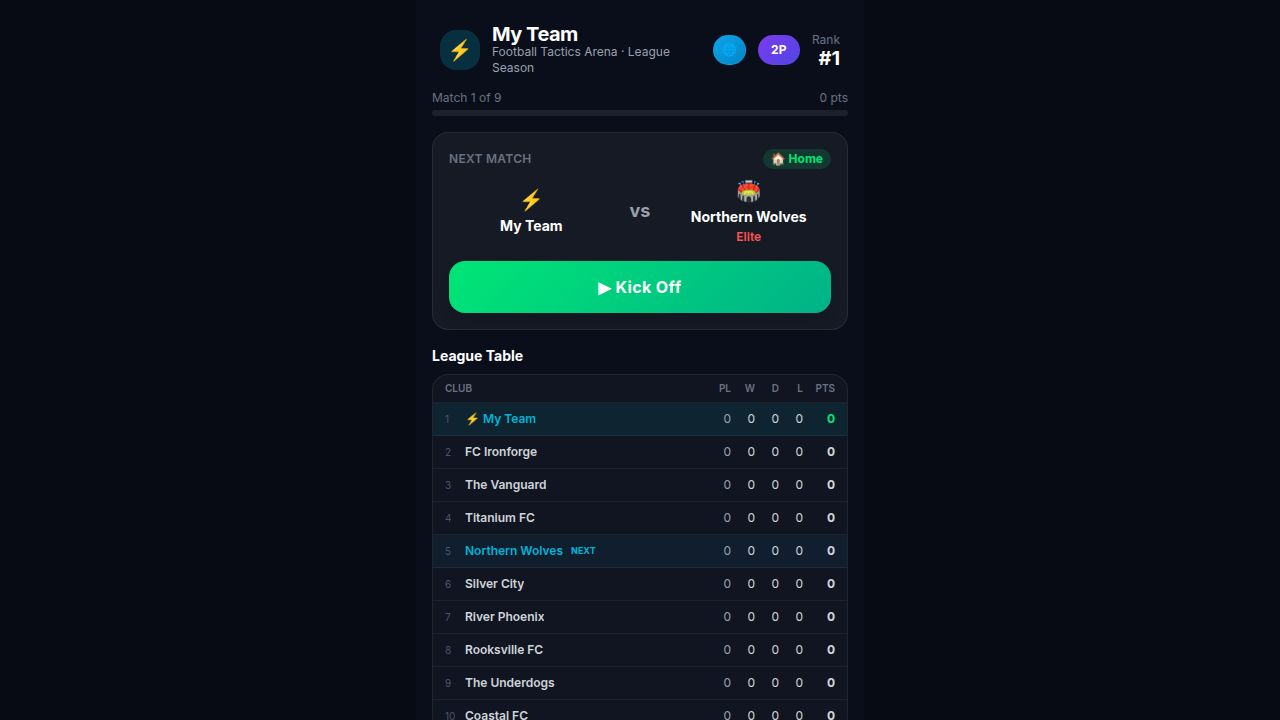
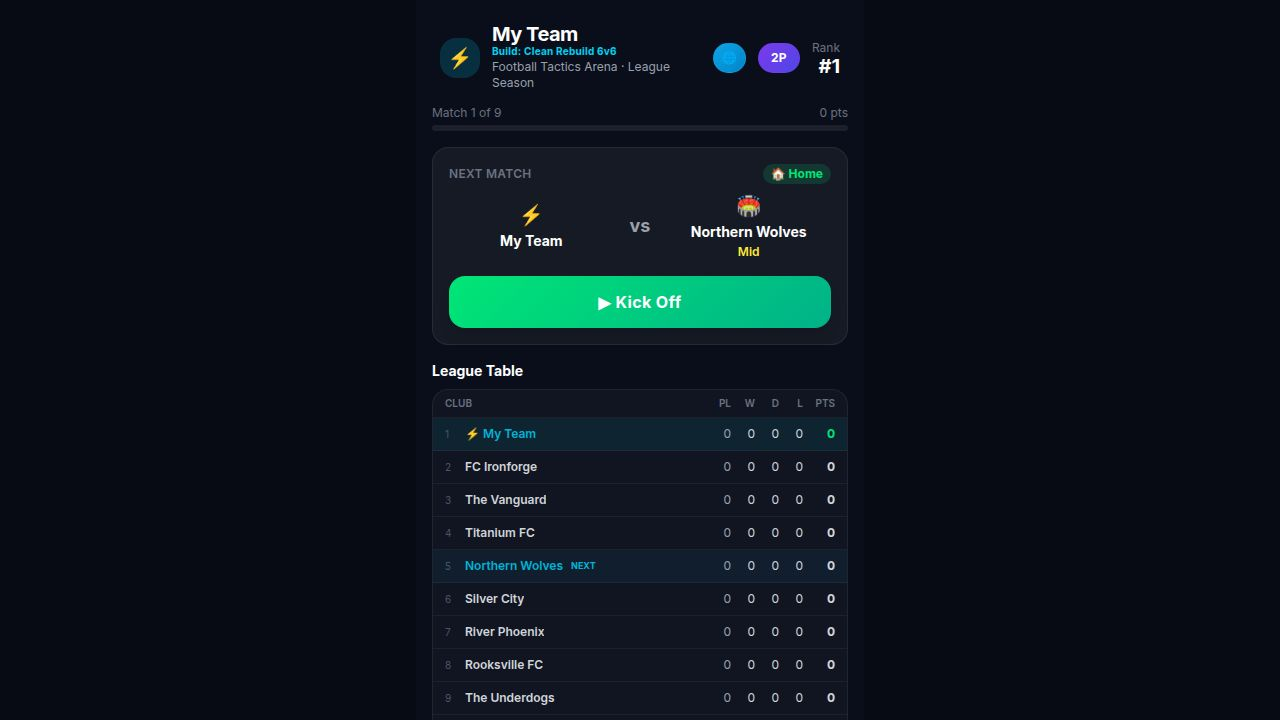
Make offside players invisible and have them retreat immediately
Update AI logic to make offside players invisible to the opposing AI and trigger an immediate retreat for those players. Also, update team setup to correctly handle initial tab states.

Replit-Commit-Author: Agent
Replit-Commit-Session-Id: b0875c89-e0bf-4ca7-92a5-9663b7d83f62
Replit-Commit-Checkpoint-Type: full_checkpoint
Replit-Commit-Event-Id: 6854da1e-b3cb-48e6-b5a6-f872ed57d44a
Replit-Commit-Screenshot-Url: https://storage.googleapis.com/screenshot-production-us-central1/bfa23300-0362-43b8-81dd-b9873eba8213/b0875c89-e0bf-4ca7-92a5-9663b7d83f62/m35GRGo
Replit-Helium-Checkpoint-Created: true

diff --git a/artifacts/fta-game/src/engine/ai.ts b/artifacts/fta-game/src/engine/ai.ts
@@ -387,6 +387,21 @@ function isAIPlayerOffside(p: SimPlayer, playerPlayers: SimPlayer[]): boolean {
   return p.position.x < PITCH_WIDTH / 3 && p.position.x < lineX;
 }
 
+// Returns the x-coordinate of the offside line as seen by the player team's attackers.
+// Player attacks rightward, so their offside line = 2nd-to-last AI player sorted by x DESC.
+function playerOffsideLineX(aiPlayers: SimPlayer[]): number {
+  if (aiPlayers.length === 0) return PITCH_WIDTH;
+  const sorted = [...aiPlayers].sort((a, b) => b.position.x - a.position.x);
+  return sorted.length >= 2 ? sorted[1].position.x : sorted[0].position.x;
+}
+
+function isPlayerTeamPlayerOffside(p: SimPlayer, aiPlayers: SimPlayer[]): boolean {
+  if (p.role === "goalkeeper") return false;
+  const lineX = playerOffsideLineX(aiPlayers);
+  // Offside only in the attacking third (x > 2/3 pitch) — middle third is a free zone.
+  return p.position.x > (PITCH_WIDTH * 2) / 3 && p.position.x > lineX;
+}
+
 /**
  * Cap poachers to 1 per team and handle onside retreat.
  * The most-advanced poacher (lowest x, since AI attacks leftward) keeps the role.
@@ -511,6 +526,7 @@ function bestAnyPass(
   const ct = posToTile(carrier.position);
   const candidates = aiPlayers
     .filter(p => p.id !== carrier.id)
+    .filter(p => !isAIPlayerOffside(p, playerPlayers))
     .map(p => ({ p, t: posToTile(p.position) }))
     .filter(({ t }) => tileDist(t, ct) <= maxDist)
     .filter(({ t }) => !isLaneBlocked(ct, t, playerPlayers))
@@ -1317,11 +1333,33 @@ export function generateAICommands(
     friendly.add(tileKey(t.col, t.row));
   }
 
+  // ── Offside filtering ────────────────────────────────────────────────────
+  // Compute which players from each team are currently offside.
+  // Offside players are invisible to AI pass/mark decisions.
+  // AI offside players retreat immediately instead of receiving commands.
+  const aiOffsideSet = new Set(
+    aiPlayers
+      .filter(p => p.id !== ball.ownerId && isAIPlayerOffside(p, playerPlayers))
+      .map(p => p.id)
+  );
+  const playerOffsideSet = new Set(
+    playerPlayers
+      .filter(p => p.id !== ball.ownerId && isPlayerTeamPlayerOffside(p, aiPlayers))
+      .map(p => p.id)
+  );
+
+  // Onside-only player lists used for all pass/mark/press decisions.
+  const activeAI = aiPlayers.filter(p => !aiOffsideSet.has(p.id));
+  const activePlayerPlayers = playerPlayers.filter(p => !playerOffsideSet.has(p.id));
+
+  // Column just inside the AI's onside zone (AI attacks leftward, offside zone is col < ~5).
+  const onsideCol = Math.ceil((PITCH_WIDTH / 3) / (PITCH_WIDTH / GRID_COLS)) + 1;
+
   const carrierTile =
     aiHasBall && ballOwner ? posToTile(ballOwner.position) : ballTile;
 
   const projectedAI: SimPlayer[] = aiHasBall
-    ? aiPlayers.map((p) => {
+    ? activeAI.map((p) => {
         if (p.id === ball.ownerId) return p;
         if (p.role === "goalkeeper") return p;
 
@@ -1329,7 +1367,7 @@ export function generateAICommands(
 
         if (currentTile.col >= carrierTile.col) return p;
 
-        const roleIdx = aiPlayers
+        const roleIdx = activeAI
           .filter((q) => q.role === p.role)
           .findIndex((q) => q.id === p.id);
 
@@ -1342,7 +1380,7 @@ export function generateAICommands(
           position: tileToPos(projTile.col, projTile.row),
         };
       })
-    : aiPlayers;
+    : activeAI;
 
   const roleOrder = (p: SimPlayer) =>
     p.role === "goalkeeper"
@@ -1368,6 +1406,14 @@ export function generateAICommands(
 
     for (const p of byProximity) {
       const pTile = posToTile(p.position);
+      // Offside AI players retreat to get onside instead of chasing the ball.
+      if (aiOffsideSet.has(p.id)) {
+        commands.set(p.id, {
+          type: CommandType.MOVE,
+          targetPosition: tileToPos(onsideCol, pTile.row),
+        });
+        continue;
+      }
       commands.set(
         p.id,
         chaseLooseBall(p, pTile, ballTile, claimed, friendly),
@@ -1382,6 +1428,15 @@ export function generateAICommands(
   for (const player of sorted) {
     const pt = posToTile(player.position);
     const hasBall = player.id === ball.ownerId;
+
+    // Offside AI players retreat to get onside — invisible to all other logic.
+    if (!hasBall && aiOffsideSet.has(player.id)) {
+      commands.set(player.id, {
+        type: CommandType.MOVE,
+        targetPosition: tileToPos(onsideCol, pt.row),
+      });
+      continue;
+    }
 
     if (!hasBall && planRef.current?.runnerId === player.id) {
       const { runTile } = planRef.current;
@@ -1404,7 +1459,7 @@ export function generateAICommands(
             pt,
             hasBall,
             projectedAI,
-            playerPlayers,
+            activePlayerPlayers,
             ballTile,
             claimed,
             friendly,
@@ -1418,7 +1473,7 @@ export function generateAICommands(
             pt,
             hasBall,
             projectedAI,
-            playerPlayers,
+            activePlayerPlayers,
             ballTile,
             claimed,
             friendly,
@@ -1432,7 +1487,7 @@ export function generateAICommands(
             pt,
             hasBall,
             projectedAI,
-            playerPlayers,
+            activePlayerPlayers,
             ballTile,
             claimed,
             friendly,
@@ -1446,8 +1501,8 @@ export function generateAICommands(
           cmd = tier1Defense(
             player,
             pt,
-            aiPlayers,
-            playerPlayers,
+            activeAI,
+            activePlayerPlayers,
             ballTile,
             claimed,
             friendly,
@@ -1459,8 +1514,8 @@ export function generateAICommands(
           cmd = tier2Defense(
             player,
             pt,
-            aiPlayers,
-            playerPlayers,
+            activeAI,
+            activePlayerPlayers,
             ballTile,
             claimed,
             friendly,
@@ -1472,8 +1527,8 @@ export function generateAICommands(
           cmd = tier3Defense(
             player,
             pt,
-            aiPlayers,
-            playerPlayers,
+            activeAI,
+            activePlayerPlayers,
             ballTile,
             claimed,
             friendly,
@@ -1487,8 +1542,8 @@ export function generateAICommands(
           cmd = tier1Defense(
             player,
             pt,
-            aiPlayers,
-            playerPlayers,
+            activeAI,
+            activePlayerPlayers,
             ballTile,
             claimed,
             friendly,
@@ -1500,8 +1555,8 @@ export function generateAICommands(
           cmd = tier2Defense(
             player,
             pt,
-            aiPlayers,
-            playerPlayers,
+            activeAI,
+            activePlayerPlayers,
             ballTile,
             claimed,
             friendly,
@@ -1513,8 +1568,8 @@ export function generateAICommands(
           cmd = tier3Defense(
             player,
             pt,
-            aiPlayers,
-            playerPlayers,
+            activeAI,
+            activePlayerPlayers,
             ballTile,
             claimed,
             friendly,

diff --git a/artifacts/fta-game/src/pages/TeamSetup.tsx b/artifacts/fta-game/src/pages/TeamSetup.tsx
@@ -8,18 +8,19 @@ interface Props {
   team: TeamConfig;
   onSave: (team: TeamConfig) => void;
   onBack: () => void;
+  initialTab?: "lineup" | "formation";
 }
 
 const SLOT_LABELS = ["GK", "DEF", "DEF", "MID", "FWD", "ST"];
 
-export default function TeamSetup({ team, onSave, onBack }: Props) {
+export default function TeamSetup({ team, onSave, onBack, initialTab = "lineup" }: Props) {
   const [currentTeam, setCurrentTeam] = useState<TeamConfig>({
     ...team,
     players: [...team.players],
   });
 
   const [activeSlot, setActiveSlot] = useState<number | null>(null);
-  const [tab, setTab] = useState<"lineup" | "formation">("lineup");
+  const [tab, setTab] = useState<"lineup" | "formation">(initialTab);
 
   const selectFormation = (formationId: string) => {
     const formation = FORMATIONS.find((f) => f.id === formationId);
